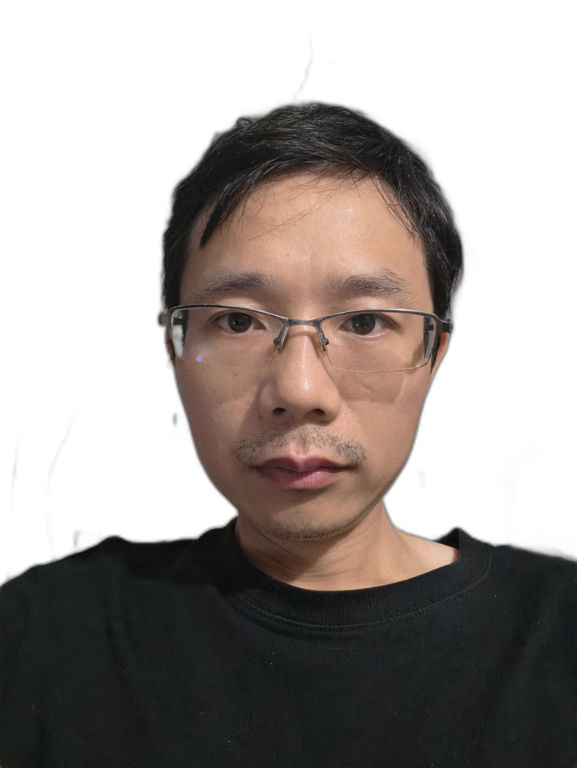
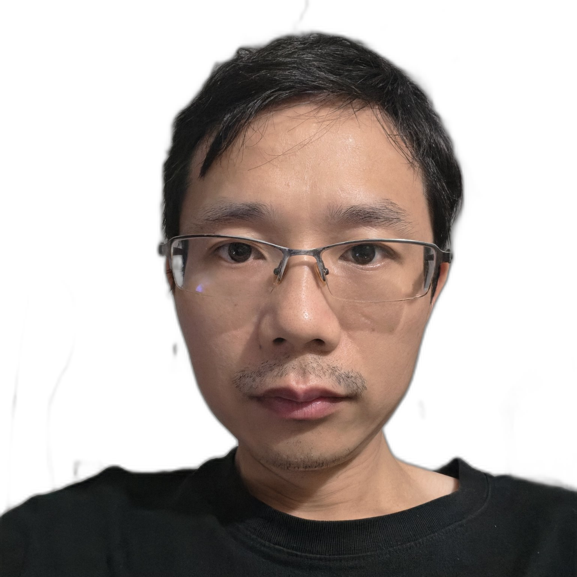
Add files via upload

diff --git a/index.html b/index.html
@@ -1,4 +1,4 @@
-<!doctype html><html lang=zh-tw dir=auto data-theme=auto><head><meta charset=utf-8><meta http-equiv=X-UA-Compatible content="IE=edge"><meta name=viewport content="width=device-width,initial-scale=1,shrink-to-fit=no"><meta name=robots content="index, follow"><title>蟲天子</title><meta name=description content><meta name=author content><link rel=canonical href=https://rongrong1314520.github.io/papermod-preview/><link crossorigin=anonymous href=/papermod-preview/assets/css/stylesheet.3899e49284c29fec4d13ca719d9bded2ada97480b4e19773202581a5000cb98c.css integrity="sha256-OJnkkoTCn+xNE8pxnZve0q2pdIC04ZdzICWBpQAMuYw=" rel="preload stylesheet" as=style><link rel=icon href=https://rongrong1314520.github.io/papermod-preview/favicon.ico><link rel=icon type=image/png sizes=16x16 href=https://rongrong1314520.github.io/papermod-preview/favicon-16x16.png><link rel=icon type=image/png sizes=32x32 href=https://rongrong1314520.github.io/papermod-preview/favicon-32x32.png><link rel=apple-touch-icon href=https://rongrong1314520.github.io/papermod-preview/apple-touch-icon.png><link rel=mask-icon href=https://rongrong1314520.github.io/papermod-preview/safari-pinned-tab.svg><meta name=theme-color content="#2e2e33"><meta name=msapplication-TileColor content="#2e2e33"><link rel=alternate type=application/rss+xml href=https://rongrong1314520.github.io/papermod-preview/index.xml title=rss><link rel=alternate type=application/json href=https://rongrong1314520.github.io/papermod-preview/index.json title=json><link rel=alternate hreflang=zh-tw href=https://rongrong1314520.github.io/papermod-preview/><noscript><style>#theme-toggle,.top-link{display:none}</style><style>@media(prefers-color-scheme:dark){:root{--theme:rgb(29, 30, 32);--entry:rgb(46, 46, 51);--primary:rgb(218, 218, 219);--secondary:rgb(155, 156, 157);--tertiary:rgb(65, 66, 68);--content:rgb(196, 196, 197);--code-block-bg:rgb(46, 46, 51);--code-bg:rgb(55, 56, 62);--border:rgb(51, 51, 51);color-scheme:dark}.list{background:var(--theme)}.toc{background:var(--entry)}}</style></noscript><script>localStorage.getItem("pref-theme")==="dark"?document.querySelector("html").dataset.theme="dark":localStorage.getItem("pref-theme")==="light"?document.querySelector("html").dataset.theme="light":window.matchMedia("(prefers-color-scheme: dark)").matches?document.querySelector("html").dataset.theme="dark":document.querySelector("html").dataset.theme="light"</script><link href="https://fonts.googleapis.com/css2?family=Archivo:wght@400;700;900&family=Noto+Sans+TC:wght@400;700;900&display=swap" rel=stylesheet><link rel=manifest href=https://rongrong1314520.github.io/papermod-preview/manifest.json><meta name=theme-color content="#ff5c00"><link rel=apple-touch-icon href=https://rongrong1314520.github.io/papermod-preview/icon-192.png><meta property="og:url" content="https://rongrong1314520.github.io/papermod-preview/"><meta property="og:site_name" content="蟲天子"><meta property="og:title" content="蟲天子"><meta property="og:locale" content="zh_tw"><meta property="og:type" content="website"><meta name=twitter:card content="summary"><meta name=twitter:title content="蟲天子"><script type=application/ld+json>{"@context":"https://schema.org","@type":"Organization","name":"蟲天子","url":"https://rongrong1314520.github.io/papermod-preview/","description":"","logo":"https://rongrong1314520.github.io/papermod-preview/favicon.ico","sameAs":["https://x.com/Lemon432hz","https://github.com/Rongrong1314520","https://www.instagram.com/aaronluoxiao?mdxt=N3BzZjQzcHRna2Fm"]}</script><meta name=generator content="Hugo 0.169.0"></head><body class=list id=top><header class=header><nav class=header-nav><div class=logo><a href=https://rongrong1314520.github.io/papermod-preview/ accesskey=h title="蟲天子 (Alt + H)">蟲天子</a><div class=logo-switches><button id=theme-toggle class=theme-toggle accesskey=t title="(Alt + T)" aria-label="Toggle theme">
+<!doctype html><html lang=zh-tw dir=auto data-theme=auto><head><meta charset=utf-8><meta http-equiv=X-UA-Compatible content="IE=edge"><meta name=viewport content="width=device-width,initial-scale=1,shrink-to-fit=no"><meta name=robots content="index, follow"><title>蟲天子</title><meta name=description content><meta name=author content><link rel=canonical href=https://rongrong1314520.github.io/papermod-preview/><link crossorigin=anonymous href=/papermod-preview/assets/css/stylesheet.0a45c196b21f2f2be325c5cd423f6c65d564d8e48909d6c255a1c71909a4b46d.css integrity="sha256-CkXBlrIfLyvjJcXNQj9sZdVk2OSJCdbCVaHHGQmktG0=" rel="preload stylesheet" as=style><link rel=icon href=https://rongrong1314520.github.io/papermod-preview/favicon.ico><link rel=icon type=image/png sizes=16x16 href=https://rongrong1314520.github.io/papermod-preview/favicon-16x16.png><link rel=icon type=image/png sizes=32x32 href=https://rongrong1314520.github.io/papermod-preview/favicon-32x32.png><link rel=apple-touch-icon href=https://rongrong1314520.github.io/papermod-preview/apple-touch-icon.png><link rel=mask-icon href=https://rongrong1314520.github.io/papermod-preview/safari-pinned-tab.svg><meta name=theme-color content="#2e2e33"><meta name=msapplication-TileColor content="#2e2e33"><link rel=alternate type=application/rss+xml href=https://rongrong1314520.github.io/papermod-preview/index.xml title=rss><link rel=alternate type=application/json href=https://rongrong1314520.github.io/papermod-preview/index.json title=json><link rel=alternate hreflang=zh-tw href=https://rongrong1314520.github.io/papermod-preview/><noscript><style>#theme-toggle,.top-link{display:none}</style><style>@media(prefers-color-scheme:dark){:root{--theme:rgb(29, 30, 32);--entry:rgb(46, 46, 51);--primary:rgb(218, 218, 219);--secondary:rgb(155, 156, 157);--tertiary:rgb(65, 66, 68);--content:rgb(196, 196, 197);--code-block-bg:rgb(46, 46, 51);--code-bg:rgb(55, 56, 62);--border:rgb(51, 51, 51);color-scheme:dark}.list{background:var(--theme)}.toc{background:var(--entry)}}</style></noscript><script>localStorage.getItem("pref-theme")==="dark"?document.querySelector("html").dataset.theme="dark":localStorage.getItem("pref-theme")==="light"?document.querySelector("html").dataset.theme="light":window.matchMedia("(prefers-color-scheme: dark)").matches?document.querySelector("html").dataset.theme="dark":document.querySelector("html").dataset.theme="light"</script><link href="https://fonts.googleapis.com/css2?family=Archivo:wght@400;700;900&family=Noto+Sans+TC:wght@400;700;900&display=swap" rel=stylesheet><link rel=manifest href=https://rongrong1314520.github.io/papermod-preview/manifest.json><meta name=theme-color content="#1a1a1a"><link rel=apple-touch-icon href=https://rongrong1314520.github.io/papermod-preview/icon-192.png><meta property="og:url" content="https://rongrong1314520.github.io/papermod-preview/"><meta property="og:site_name" content="蟲天子"><meta property="og:title" content="蟲天子"><meta property="og:locale" content="zh_tw"><meta property="og:type" content="website"><meta name=twitter:card content="summary"><meta name=twitter:title content="蟲天子"><script type=application/ld+json>{"@context":"https://schema.org","@type":"Organization","name":"蟲天子","url":"https://rongrong1314520.github.io/papermod-preview/","description":"","logo":"https://rongrong1314520.github.io/papermod-preview/favicon.ico","sameAs":["https://x.com/Lemon432hz","https://github.com/Rongrong1314520","https://www.instagram.com/aaronluoxiao?mdxt=N3BzZjQzcHRna2Fm"]}</script><meta name=generator content="Hugo 0.169.0"></head><body class=list id=top><header class=header><nav class=header-nav><div class=logo><a href=https://rongrong1314520.github.io/papermod-preview/ accesskey=h title="蟲天子 (Alt + H)">蟲天子</a><div class=logo-switches><button id=theme-toggle class=theme-toggle accesskey=t title="(Alt + T)" aria-label="Toggle theme">
 <svg class="moon" width="17" height="17" viewBox="0 0 24 24" fill="none" stroke="currentColor" stroke-width="2" stroke-linecap="round" stroke-linejoin="round"><path d="M21 12.79A9 9 0 1111.21 3 7 7 0 0021 12.79z"/></svg>
 <svg class="sun" width="17" height="17" viewBox="0 0 24 24" fill="none" stroke="currentColor" stroke-width="2" stroke-linecap="round" stroke-linejoin="round"><circle cx="12" cy="12" r="5"/><line x1="12" y1="1" x2="12" y2="3"/><line x1="12" y1="21" x2="12" y2="23"/><line x1="4.22" y1="4.22" x2="5.64" y2="5.64"/><line x1="18.36" y1="18.36" x2="19.78" y2="19.78"/><line x1="1" y1="12" x2="3" y2="12"/><line x1="21" y1="12" x2="23" y2="12"/><line x1="4.22" y1="19.78" x2="5.64" y2="18.36"/><line x1="18.36" y1="5.64" x2="19.78" y2="4.22"/></svg></button></div></div><ul id=menu class=menu><li><a href=https://rongrong1314520.github.io/papermod-preview/about/ title=關於><span>關於</span></a></li><li><a href=https://rongrong1314520.github.io/papermod-preview/posts/ title=部落格><span>部落格</span></a></li><li><a href=https://rongrong1314520.github.io/papermod-preview/projects/ title=精選項目><span>精選項目</span></a></li><li><a href=https://rongrong1314520.github.io/papermod-preview/tags/%E6%94%B6%E8%97%8F/ title=收藏><span>收藏</span></a></li><li><a href=https://rongrong1314520.github.io/papermod-preview/search/ title="搜尋 (Alt + /)" accesskey=/><span>搜尋</span></a></li></ul></nav></header><main class=main><div class=profile><div class=profile_inner><img draggable=false src=https://rongrong1314520.github.io/papermod-preview/photo.png alt=蟲天子 title=蟲天子 height=150 width=150><h1>妳好！我是 <strong>蟲天子</strong></h1><span>這是我的個人主頁，正在慢慢完善。</span><div class=social-icons><a href=https://x.com/Lemon432hz target=_blank rel="noopener noreferrer me" title=X><svg viewBox="0 0 24 24" fill="currentColor"><path d="M18.244 2.25h3.308l-7.227 8.26 8.502 11.24H16.17l-5.214-6.817L4.99 21.75H1.68l7.73-8.835L1.254 2.25H8.08l4.713 6.231zm-1.161 17.52h1.833L7.084 4.126H5.117z"/></svg>
 </a><a href=https://github.com/Rongrong1314520 target=_blank rel="noopener noreferrer me" title=Github><svg viewBox="0 0 24 24" fill="none" stroke="currentColor" stroke-width="2" stroke-linecap="round" stroke-linejoin="round"><path d="M9 19c-5 1.5-5-2.5-7-3m14 6v-3.87a3.37 3.37.0 00-.94-2.61c3.14-.35 6.44-1.54 6.44-7A5.44 5.44.0 0020 4.77 5.07 5.07.0 0019.91 1S18.73.65 16 2.48a13.38 13.38.0 00-7 0C6.27.65 5.09 1 5.09 1A5.07 5.07.0 005 4.77 5.44 5.44.0 003.5 8.55c0 5.42 3.3 6.61 6.44 7A3.37 3.37.0 009 18.13V22"/></svg>

diff --git a/404.html b/404.html
@@ -1,4 +1,4 @@
-<!doctype html><html lang=zh-tw dir=auto data-theme=auto><head><meta charset=utf-8><meta http-equiv=X-UA-Compatible content="IE=edge"><meta name=viewport content="width=device-width,initial-scale=1,shrink-to-fit=no"><meta name=robots content="index, follow"><title>404 Page not found | 蟲天子</title><meta name=keywords content><meta name=description content><meta name=author content><link rel=canonical href=https://rongrong1314520.github.io/papermod-preview/404.html><link crossorigin=anonymous href=/papermod-preview/assets/css/stylesheet.3899e49284c29fec4d13ca719d9bded2ada97480b4e19773202581a5000cb98c.css integrity="sha256-OJnkkoTCn+xNE8pxnZve0q2pdIC04ZdzICWBpQAMuYw=" rel="preload stylesheet" as=style><link rel=icon href=https://rongrong1314520.github.io/papermod-preview/favicon.ico><link rel=icon type=image/png sizes=16x16 href=https://rongrong1314520.github.io/papermod-preview/favicon-16x16.png><link rel=icon type=image/png sizes=32x32 href=https://rongrong1314520.github.io/papermod-preview/favicon-32x32.png><link rel=apple-touch-icon href=https://rongrong1314520.github.io/papermod-preview/apple-touch-icon.png><link rel=mask-icon href=https://rongrong1314520.github.io/papermod-preview/safari-pinned-tab.svg><meta name=theme-color content="#2e2e33"><meta name=msapplication-TileColor content="#2e2e33"><link rel=alternate hreflang=zh-tw href=https://rongrong1314520.github.io/papermod-preview/404.html><noscript><style>#theme-toggle,.top-link{display:none}</style><style>@media(prefers-color-scheme:dark){:root{--theme:rgb(29, 30, 32);--entry:rgb(46, 46, 51);--primary:rgb(218, 218, 219);--secondary:rgb(155, 156, 157);--tertiary:rgb(65, 66, 68);--content:rgb(196, 196, 197);--code-block-bg:rgb(46, 46, 51);--code-bg:rgb(55, 56, 62);--border:rgb(51, 51, 51);color-scheme:dark}.list{background:var(--theme)}.toc{background:var(--entry)}}</style></noscript><script>localStorage.getItem("pref-theme")==="dark"?document.querySelector("html").dataset.theme="dark":localStorage.getItem("pref-theme")==="light"?document.querySelector("html").dataset.theme="light":window.matchMedia("(prefers-color-scheme: dark)").matches?document.querySelector("html").dataset.theme="dark":document.querySelector("html").dataset.theme="light"</script><link href="https://fonts.googleapis.com/css2?family=Archivo:wght@400;700;900&family=Noto+Sans+TC:wght@400;700;900&display=swap" rel=stylesheet><link rel=manifest href=https://rongrong1314520.github.io/papermod-preview/manifest.json><meta name=theme-color content="#ff5c00"><link rel=apple-touch-icon href=https://rongrong1314520.github.io/papermod-preview/icon-192.png><meta property="og:url" content="https://rongrong1314520.github.io/papermod-preview/404.html"><meta property="og:site_name" content="蟲天子"><meta property="og:title" content="404 Page not found"><meta property="og:locale" content="zh_tw"><meta property="og:type" content="website"><meta name=twitter:card content="summary"><meta name=twitter:title content="404 Page not found"></head><body class=list id=top><header class=header><nav class=header-nav><div class=logo><a href=https://rongrong1314520.github.io/papermod-preview/ accesskey=h title="蟲天子 (Alt + H)">蟲天子</a><div class=logo-switches><button id=theme-toggle class=theme-toggle accesskey=t title="(Alt + T)" aria-label="Toggle theme">
+<!doctype html><html lang=zh-tw dir=auto data-theme=auto><head><meta charset=utf-8><meta http-equiv=X-UA-Compatible content="IE=edge"><meta name=viewport content="width=device-width,initial-scale=1,shrink-to-fit=no"><meta name=robots content="index, follow"><title>404 Page not found | 蟲天子</title><meta name=keywords content><meta name=description content><meta name=author content><link rel=canonical href=https://rongrong1314520.github.io/papermod-preview/404.html><link crossorigin=anonymous href=/papermod-preview/assets/css/stylesheet.0a45c196b21f2f2be325c5cd423f6c65d564d8e48909d6c255a1c71909a4b46d.css integrity="sha256-CkXBlrIfLyvjJcXNQj9sZdVk2OSJCdbCVaHHGQmktG0=" rel="preload stylesheet" as=style><link rel=icon href=https://rongrong1314520.github.io/papermod-preview/favicon.ico><link rel=icon type=image/png sizes=16x16 href=https://rongrong1314520.github.io/papermod-preview/favicon-16x16.png><link rel=icon type=image/png sizes=32x32 href=https://rongrong1314520.github.io/papermod-preview/favicon-32x32.png><link rel=apple-touch-icon href=https://rongrong1314520.github.io/papermod-preview/apple-touch-icon.png><link rel=mask-icon href=https://rongrong1314520.github.io/papermod-preview/safari-pinned-tab.svg><meta name=theme-color content="#2e2e33"><meta name=msapplication-TileColor content="#2e2e33"><link rel=alternate hreflang=zh-tw href=https://rongrong1314520.github.io/papermod-preview/404.html><noscript><style>#theme-toggle,.top-link{display:none}</style><style>@media(prefers-color-scheme:dark){:root{--theme:rgb(29, 30, 32);--entry:rgb(46, 46, 51);--primary:rgb(218, 218, 219);--secondary:rgb(155, 156, 157);--tertiary:rgb(65, 66, 68);--content:rgb(196, 196, 197);--code-block-bg:rgb(46, 46, 51);--code-bg:rgb(55, 56, 62);--border:rgb(51, 51, 51);color-scheme:dark}.list{background:var(--theme)}.toc{background:var(--entry)}}</style></noscript><script>localStorage.getItem("pref-theme")==="dark"?document.querySelector("html").dataset.theme="dark":localStorage.getItem("pref-theme")==="light"?document.querySelector("html").dataset.theme="light":window.matchMedia("(prefers-color-scheme: dark)").matches?document.querySelector("html").dataset.theme="dark":document.querySelector("html").dataset.theme="light"</script><link href="https://fonts.googleapis.com/css2?family=Archivo:wght@400;700;900&family=Noto+Sans+TC:wght@400;700;900&display=swap" rel=stylesheet><link rel=manifest href=https://rongrong1314520.github.io/papermod-preview/manifest.json><meta name=theme-color content="#1a1a1a"><link rel=apple-touch-icon href=https://rongrong1314520.github.io/papermod-preview/icon-192.png><meta property="og:url" content="https://rongrong1314520.github.io/papermod-preview/404.html"><meta property="og:site_name" content="蟲天子"><meta property="og:title" content="404 Page not found"><meta property="og:locale" content="zh_tw"><meta property="og:type" content="website"><meta name=twitter:card content="summary"><meta name=twitter:title content="404 Page not found"></head><body class=list id=top><header class=header><nav class=header-nav><div class=logo><a href=https://rongrong1314520.github.io/papermod-preview/ accesskey=h title="蟲天子 (Alt + H)">蟲天子</a><div class=logo-switches><button id=theme-toggle class=theme-toggle accesskey=t title="(Alt + T)" aria-label="Toggle theme">
 <svg class="moon" width="17" height="17" viewBox="0 0 24 24" fill="none" stroke="currentColor" stroke-width="2" stroke-linecap="round" stroke-linejoin="round"><path d="M21 12.79A9 9 0 1111.21 3 7 7 0 0021 12.79z"/></svg>
 <svg class="sun" width="17" height="17" viewBox="0 0 24 24" fill="none" stroke="currentColor" stroke-width="2" stroke-linecap="round" stroke-linejoin="round"><circle cx="12" cy="12" r="5"/><line x1="12" y1="1" x2="12" y2="3"/><line x1="12" y1="21" x2="12" y2="23"/><line x1="4.22" y1="4.22" x2="5.64" y2="5.64"/><line x1="18.36" y1="18.36" x2="19.78" y2="19.78"/><line x1="1" y1="12" x2="3" y2="12"/><line x1="21" y1="12" x2="23" y2="12"/><line x1="4.22" y1="19.78" x2="5.64" y2="18.36"/><line x1="18.36" y1="5.64" x2="19.78" y2="4.22"/></svg></button></div></div><ul id=menu class=menu><li><a href=https://rongrong1314520.github.io/papermod-preview/about/ title=關於><span>關於</span></a></li><li><a href=https://rongrong1314520.github.io/papermod-preview/posts/ title=部落格><span>部落格</span></a></li><li><a href=https://rongrong1314520.github.io/papermod-preview/projects/ title=精選項目><span>精選項目</span></a></li><li><a href=https://rongrong1314520.github.io/papermod-preview/tags/%E6%94%B6%E8%97%8F/ title=收藏><span>收藏</span></a></li><li><a href=https://rongrong1314520.github.io/papermod-preview/search/ title="搜尋 (Alt + /)" accesskey=/><span>搜尋</span></a></li></ul></nav></header><main class=main><div class=not-found>404</div></main><footer class=footer><span>© 2026 Rongrong1314520 · 保留所有權利</span> ·
 請給我寫信：<a href=mailto:chentingxierong@gmail.com>chentingxierong@gmail.com</a> ·
